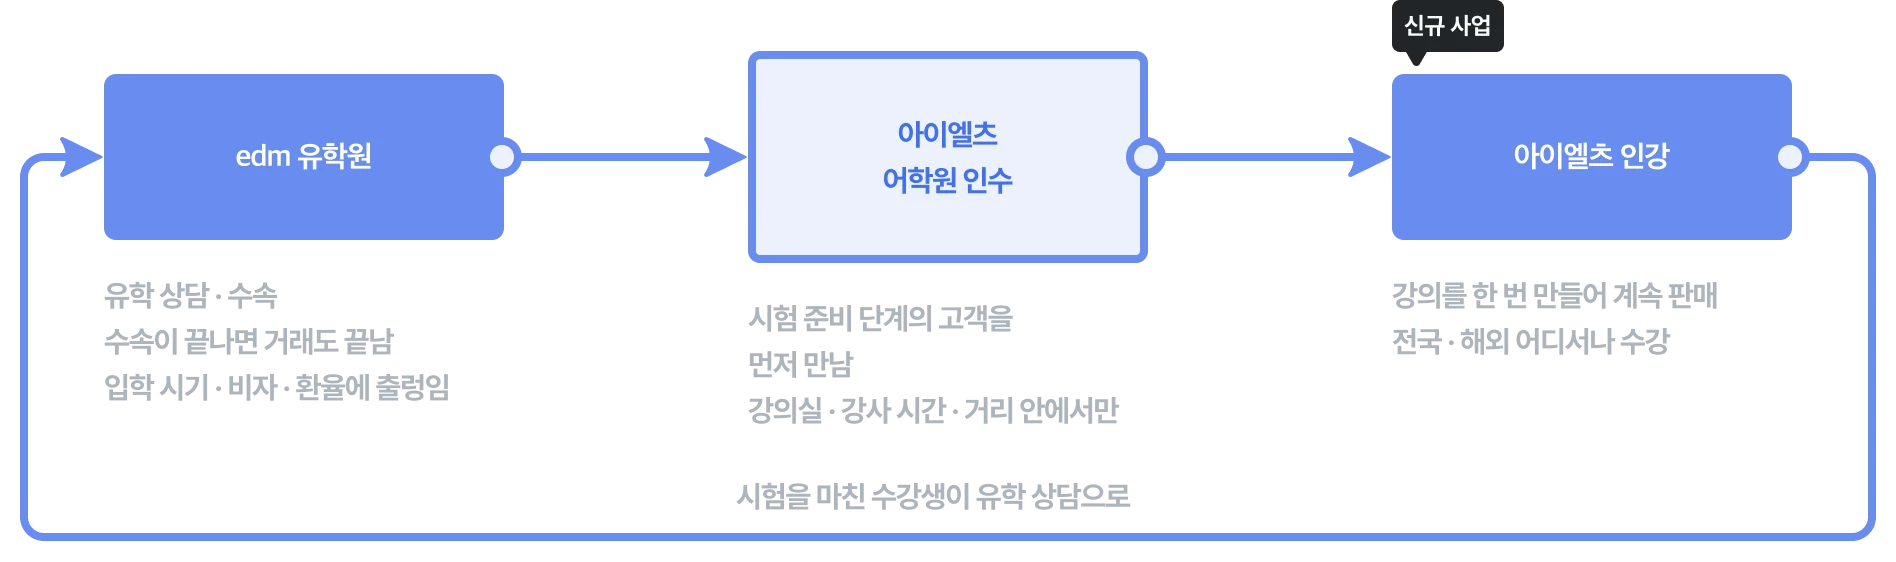
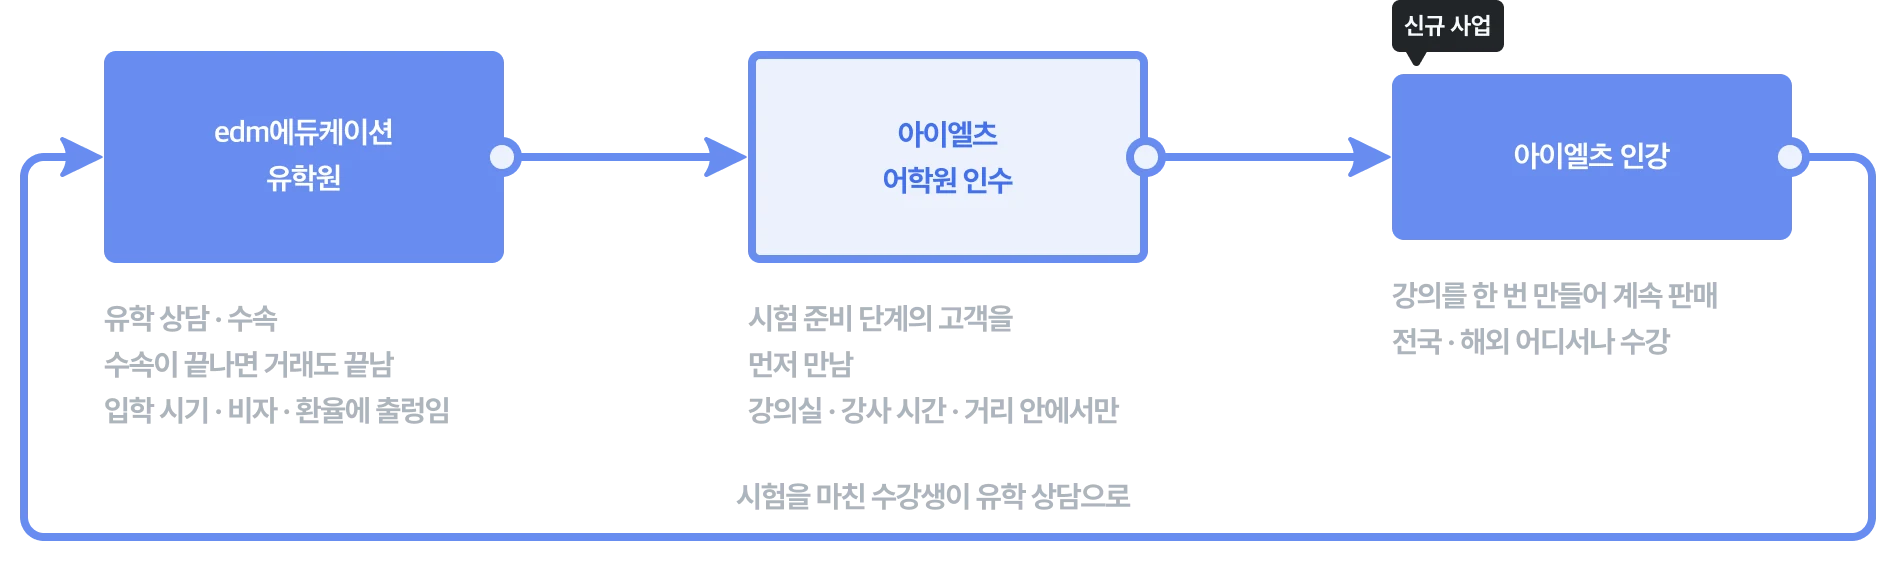
이디엠 — 회사 이름을 edm에듀케이션으로, 02 문제 정의에 퍼널 분석 도식
- 본문 · 경력 불릿 · 사업 확장 도식의 'edm' 을 'edm에듀케이션' 으로(사용자 지시)
- 02: 접수 기간 트래픽을 퍼널로 나눠 이탈이 첫 화면에 몰린 것을 보여 주는 도식(1:1) + 문단. 단계별 수치는 없어 넣지 않았다
- flowkit.line 에 k(굵기 · 고리 · 화살촉 배율) — 1:1 로 보이는 그림용, 기본값이면 예전과 같다

Changed region(s): [[0.0311, 0.4235, 0.2801, 0.7562], [0.0311, 0.0907, 0.2801, 0.1512], [0.0934, 0.2117, 0.2178, 0.363]]

diff --git a/resources/data/projects.php b/resources/data/projects.php
@@ -369,19 +369,19 @@ return [
                     //   근거: 사용자 말(edm 유학원 · 어학원 인수) · 경력기술서 · 이력 불릿(매출 10억 · 토스 · 한국어 인강). 매출은 10억 하나로만 쓴다(사용자 지시).
                     //   ⚠ 유학원의 한계(한 번의 거래 · 입학 시기 · 비자 · 환율)와 인강의 이유(판매 구조 · 유학 상담 연결)는 Claude 가 도메인 논리로 쓴 해석 — 사용자 확인 필요. A‑Z 붙임표는 U+2011.
                     ['title' => '배경', 'items' => [
-                        ['label' => '프로젝트 개요', 'text' => 'edm은 유학 상담과 수속을 하는 유학원으로 시작해 아이엘츠 어학원을 인수한 회사였습니다. 저는 어학원을 발판으로 온라인 인강 사업을 새로 여는 신사업팀의 초기 멤버로 합류해, 인강 플랫폼 오픈의 A‑Z 기획에 참여했고 오픈 뒤에는 서비스 운영과 상품 기획을 맡았습니다.'],
+                        ['label' => '프로젝트 개요', 'text' => 'edm에듀케이션은 유학 상담과 수속을 하는 유학원으로 시작해 아이엘츠 어학원을 인수한 회사였습니다. 저는 어학원을 발판으로 온라인 인강 사업을 새로 여는 신사업팀의 초기 멤버로 합류해, 인강 플랫폼 오픈의 A‑Z 기획에 참여했고 오픈 뒤에는 서비스 운영과 상품 기획을 맡았습니다.'],
                     ]],
                     ['title' => '사업 확장 이유', 'items' => [
                         ['label' => null, 'text' => '유학원의 매출은 상담과 수속에서 나옵니다. 수속이 끝나면 고객과의 거래도 끝나서 한 사람에게서 나오는 매출이 한 번에 그치고, 수요는 입학 시기와 비자, 환율 같은 바깥 조건에 따라 크게 출렁였습니다. 고객을 계속 새로 찾아야 하는 구조였습니다.'],
-                        ['label' => null, 'text' => '아이엘츠는 영국, 호주, 캐나다 같은 나라로 유학을 가려면 먼저 넘어야 하는 시험입니다. 어학원을 인수하면서 edm은 유학 상담보다 앞 단계인, 시험을 준비하는 사람들을 먼저 만날 수 있게 됐습니다. 하지만 오프라인 어학원은 강의실 수와 강사의 시간, 학원까지 오갈 수 있는 거리 안에서만 수강생을 받을 수 있었습니다. 지방이나 해외에 있는 준비생, 수업 시간을 맞추기 어려운 직장인은 들을 수 없었습니다.'],
+                        ['label' => null, 'text' => '아이엘츠는 영국, 호주, 캐나다 같은 나라로 유학을 가려면 먼저 넘어야 하는 시험입니다. 어학원을 인수하면서 edm에듀케이션은 유학 상담보다 앞 단계인, 시험을 준비하는 사람들을 먼저 만날 수 있게 됐습니다. 하지만 오프라인 어학원은 강의실 수와 강사의 시간, 학원까지 오갈 수 있는 거리 안에서만 수강생을 받을 수 있었습니다. 지방이나 해외에 있는 준비생, 수업 시간을 맞추기 어려운 직장인은 들을 수 없었습니다.'],
                         ['label' => null, 'text' => '인강은 이 두 한계를 한 번에 푸는 방법이었습니다. 강의를 한 번 만들면 수강생이 늘어도 강의실과 강사를 더 늘리지 않아도 되고, 국내는 물론 해외 어디서든 들을 수 있습니다. 사업 초기부터 국내 시장만으로는 아이엘츠 시장의 파이가 크지 않다는 점을 감안해, 국내뿐 아니라 해외에 있는 학생까지 끌어들이는 것을 전제로 삼았습니다. 인강으로 아이엘츠를 준비하는 사람을 넓게 모으면 시험을 마친 수강생이 유학 상담으로 이어지는 흐름도 만들 수 있었습니다.'],
-                        ['image' => ['src' => 'images/projects/edm-business-flow.webp', 'width' => 1896, 'height' => 562, 'max' => 711, 'plain' => true, 'alt' => '사업이 넓어진 순서. edm 유학원(유학 상담 · 수속, 수속이 끝나면 거래도 끝나고 입학 시기 · 비자 · 환율에 출렁임), 아이엘츠 어학원 인수(시험 준비 단계의 고객을 먼저 만나지만 강의실 · 강사 시간 · 거리 안에서만), 아이엘츠 인강(신규 사업, 강의를 한 번 만들어 계속 판매, 전국 · 해외 어디서나 수강). 시험을 마친 수강생이 다시 유학 상담으로 이어진다.', 'caption' => '유학원에서 어학원을 거쳐 인강까지']],
-                        ['label' => null, 'text' => '사업 영역을 온라인까지 넓히려면 풀어야 할 과제가 두 가지였습니다. 오프라인에서 쌓은 edm의 브랜드를 온라인에서 일관되게 보여 줄 구조가 없었고, 강의 영상 스트리밍과 학습 관리, 결제, 교재 배송을 한 서비스로 묶은 온라인 교육 인프라도 처음부터 만들어야 했습니다.'],
+                        ['image' => ['src' => 'images/projects/edm-business-flow.webp', 'width' => 1896, 'height' => 562, 'max' => 711, 'plain' => true, 'alt' => '사업이 넓어진 순서. edm에듀케이션 유학원(유학 상담 · 수속, 수속이 끝나면 거래도 끝나고 입학 시기 · 비자 · 환율에 출렁임), 아이엘츠 어학원 인수(시험 준비 단계의 고객을 먼저 만나지만 강의실 · 강사 시간 · 거리 안에서만), 아이엘츠 인강(신규 사업, 강의를 한 번 만들어 계속 판매, 전국 · 해외 어디서나 수강). 시험을 마친 수강생이 다시 유학 상담으로 이어진다.', 'caption' => '유학원에서 어학원을 거쳐 인강까지']],
+                        ['label' => null, 'text' => '사업 영역을 온라인까지 넓히려면 풀어야 할 과제가 두 가지였습니다. 오프라인에서 쌓은 edm에듀케이션의 브랜드를 온라인에서 일관되게 보여 줄 구조가 없었고, 강의 영상 스트리밍과 학습 관리, 결제, 교재 배송을 한 서비스로 묶은 온라인 교육 인프라도 처음부터 만들어야 했습니다.'],
                     ]],
                     ['title' => '플랫폼 기획', 'items' => [
                         ['image' => ['src' => 'images/projects/edm-production-flow.webp', 'width' => 3620, 'height' => 364, 'plain' => true, 'alt' => '강의가 만들어져 관리되기까지. 커리큘럼 개발(제작 과정을 정의하고 강사용 매뉴얼로 정리), 교안 제작, 강의 녹화, 편집 · 인강 제작, AWS 서버 업로드(국내 · 해외 어디서나 끊기지 않고 수강), LMS 강의 관리.', 'caption' => '강의 제작부터 관리까지']],
                         ['label' => null, 'text' => '플랫폼 기획은 강의를 만드는 일에서 시작했습니다. 어학원 강사가 강의를 찍으려면 먼저 커리큘럼을 개발하고 교안을 만들어야 했고, 강의를 녹화하고 편집해 인터넷 강의로 제작해야 했습니다. 이 제작 과정을 정의하고, 강사가 따라 할 수 있는 강사용 매뉴얼을 만들었습니다.'],
-                        ['label' => null, 'text' => '제작 과정부터 정한 건 온라인에서 edm의 브랜드를 지키는 방법이 결국 강의의 품질이라고 봤기 때문입니다. 교실에서는 강사가 학생 반응을 보며 설명을 늘리거나 줄일 수 있지만, 인강은 한 번 찍은 영상을 모든 수강생이 똑같이 봅니다. 강사마다 준비하고 찍는 방식이 다르면 같은 edm 강의라도 품질이 제각각이 됩니다. 그래서 커리큘럼과 교안을 확정한 뒤에 녹화에 들어가는 순서를 정하고, 녹화와 편집에서 지킬 기준을 강사용 매뉴얼에 담아 어느 강사의 강의를 들어도 같은 수준이 나오게 했습니다.'],
+                        ['label' => null, 'text' => '제작 과정부터 정한 건 온라인에서 edm에듀케이션의 브랜드를 지키는 방법이 결국 강의의 품질이라고 봤기 때문입니다. 교실에서는 강사가 학생 반응을 보며 설명을 늘리거나 줄일 수 있지만, 인강은 한 번 찍은 영상을 모든 수강생이 똑같이 봅니다. 강사마다 준비하고 찍는 방식이 다르면 같은 edm에듀케이션 강의라도 품질이 제각각이 됩니다. 그래서 커리큘럼과 교안을 확정한 뒤에 녹화에 들어가는 순서를 정하고, 녹화와 편집에서 지킬 기준을 강사용 매뉴얼에 담아 어느 강사의 강의를 들어도 같은 수준이 나오게 했습니다.'],
                         ['label' => null, 'text' => '정보구조는 강의를 올리고 관리하는 관리자 · LMS와 수강생이 강의를 듣는 수강생 사이트로 구성했습니다.'],
                         ['table' => ['group' => true, 'headers' => ['구분', '메뉴', '설명'], 'rows' => [
                             ['수강생 사이트', '회원가입', '가입한 계정 하나로 수강과 결제, 학습 관리까지'],
@@ -430,7 +430,9 @@ return [
                         ]],
                     ]],
                     ['title' => '문제 정의', 'items' => [
-                        ['label' => null, 'text' => '모의고사 접수 기간이 되면 신청 사이트로 들어오는 사람은 크게 늘었지만, 신청으로 이어지는 사람은 그만큼 늘지 않았습니다. 접수 기간의 트래픽을 들여다보니 많은 사용자가 첫 화면에서 바로 나가고 있었습니다.'],
+                        // 퍼널 도식 — tools/figma-export-plugin/tasks/edm.py funnel(). ⚠ 단계별 수치는 없다(경력기술서에 없음). 사용자가 수치를 주면 도식과 문단에 넣는다.
+                        ['image' => ['src' => 'images/projects/edm-ielts-funnel.webp', 'width' => 1460, 'height' => 710, 'max' => 730, 'plain' => true, 'alt' => '개편 전 모의고사 접수 퍼널. 접수 기간 유입에서 첫 화면 · 게시글 목록, 게시글 열람, 신청 글 작성, 신청 완료로 좁아지고, 첫 화면에서 가장 크게 좁아진다. 첫 화면 옆에 이탈 집중 표시와 함께 신청 방법이 보이지 않아 게시글 목록에서 바로 나감. 게시글 열람은 다른 사람의 글을 열어 적는 방식을 확인하는 단계, 신청 글 작성은 정해진 양식 없이 자유롭게 쓰는 단계, 신청 완료 뒤에는 관리자가 글을 옮겨 적어 명단에 반영한다.', 'caption' => '개편 전 모의고사 접수 퍼널']],
+                        ['label' => null, 'text' => '모의고사 접수 기간이 되면 신청 사이트로 들어오는 사람은 크게 늘었지만, 신청으로 이어지는 사람은 그만큼 늘지 않았습니다. 그래서 접수 기간의 트래픽을 퍼널로 나눠 봤습니다. 첫 화면인 게시글 목록에 들어와 다른 사람의 글을 열어 신청 방법을 확인하고, 신청 글을 작성해 등록하기까지를 단계별로 보니 이탈은 첫 화면에 몰려 있었습니다. 많은 사용자가 게시글 목록만 보고 바로 나갔습니다.'],
                         ['label' => null, 'text' => '원인은 첫 화면이 게시판이라는 데 있었습니다. 기존 모의고사 신청 사이트는 익명 게시판 형태로 운영돼서, 처음 들어온 사람이 보는 건 다른 사람들이 남긴 신청 글 목록이었습니다. 어떻게 신청하는지, 글에 무엇을 적어야 하는지는 다른 사람의 글을 몇 개 열어 보고서야 알 수 있었습니다.'],
                         ['label' => null, 'text' => '운영도 비효율적이었습니다. 신청 글은 사람마다 적는 방식이 제각각이라, 관리자는 글을 하나씩 열어 이름과 연락처, 응시 일정을 명단으로 옮겨 적어야 했습니다. 손으로 옮기는 만큼 빠지거나 잘못 적히는 정보도 생길 수 있었습니다.'],
                         ['label' => null, 'text' => '이 근거를 바탕으로 생각해볼 수 있는 가설은 익명 게시판 형태의 신청을 프로세스 중심의 화면으로 바꾸면 신청 허들이 낮아져 전환율이 오른다는 것이었습니다.'],

diff --git a/tools/figma-export-plugin/tasks/edm.py b/tools/figma-export-plugin/tasks/edm.py
@@ -7,7 +7,9 @@
   (정보구조도는 그림 대신 projects.php 의 표로 옮겼다 — 2026-09-26 사용자 요청)
   ielts   개선 전(흐린 줄) 게시글 목록 → 신청 방법을 찾았나(N 이탈) → 신청 글 → 관리자 수동 취합 / 개선 후 일정 선택 → 정보 입력 → 확인 · 접수 완료 → 명단 자동 생성
   global  해외 유학 준비생 → 해외 결제 → 무료 교재 해외배송(EMS) → AWS 로 강의 접속 → 수강
-  business edm 유학원 → 아이엘츠 어학원 인수 → 아이엘츠 인강, 인강 수강생이 다시 유학 상담으로(개요 문제 정의)
+  business edm에듀케이션 유학원 → 아이엘츠 어학원 인수 → 아이엘츠 인강, 인강 수강생이 다시 유학 상담으로(개요 사업 확장 이유)
+  funnel  개편 전 모의고사 접수 퍼널(도식) — 단계와 이탈이 몰린 첫 화면만. 수치는 경력기술서에 없어 넣지 않는다
+  ⚠ 회사 이름은 edm 이 아니라 edm에듀케이션(사용자, 2026-09-27)
 사용: python3 tools/figma-export-plugin/tasks/edm.py <작업 JSON 경로>
 """
 import sys
@@ -71,7 +73,7 @@ def global_():
 def business():
     """유학원 → 어학원 인수 → 인강 — 사업이 넓어진 순서와, 인강 수강생이 다시 유학 상담으로 이어지는 흐름(개요 문제 정의)."""
     f = Flow()
-    f.box('agency', X[0], CY, ['edm 유학원'], terminal=True, note=['유학 상담 · 수속', '수속이 끝나면 거래도 끝남', '입학 시기 · 비자 · 환율에 출렁임'])
+    f.box('agency', X[0], CY, ['edm에듀케이션', '유학원'], terminal=True, note=['유학 상담 · 수속', '수속이 끝나면 거래도 끝남', '입학 시기 · 비자 · 환율에 출렁임'])
     f.box('academy', X[1], CY, ['아이엘츠', '어학원 인수'], note=['시험 준비 단계의 고객을', '먼저 만남', '강의실 · 강사 시간 · 거리 안에서만'])
     f.box('online', X[2], CY, ['아이엘츠 인강'], terminal=True, note=['강의를 한 번 만들어 계속 판매', '전국 · 해외 어디서나 수강'])
     f.right('agency', 'academy'); f.right('academy', 'online')
@@ -82,12 +84,57 @@ def business():
     f.pill('online', '신규 사업')
     return f
 
+def funnel():
+    """개편 전 모의고사 접수 퍼널 — 1:1 로 보이는 도식(글자 15 · 선 2). 단계와 이탈이 몰린 첫 화면만 표시한다.
+    ⚠ 단계별 인원 · 이탈률은 경력기술서에 없다 — 숫자를 지어내지 않는다. 폭은 첫 화면에서 크게 좁아지는 모양만 보여 준다."""
+    import math
+    f = Flow()
+    CX, AX = 220, 512                     # 깔때기 가운데 · 오른쪽 설명 칸
+    def rpoly(pts, r=6):                  # 모서리를 반경 r 로 굴린 다각형
+        def toward(p, q, d):
+            L = math.hypot(q[0] - p[0], q[1] - p[1]); return (p[0] + (q[0] - p[0]) * d / L, p[1] + (q[1] - p[1]) * d / L)
+        out = []
+        for i in range(len(pts)):
+            p0, p1, p2 = pts[i - 1], pts[i], pts[(i + 1) % len(pts)]
+            a, b = toward(p1, p0, r), toward(p1, p2, r)
+            out.append(('M' if i == 0 else 'L') + f'{a[0]:.2f} {a[1]:.2f}Q{p1[0]:.2f} {p1[1]:.2f} {b[0]:.2f} {b[1]:.2f}')
+        return ''.join(out) + 'Z'
+    layers = [  # 위 · 높이 · 윗변 · 아랫변 · 이름 · 진하게 · 오른쪽 설명
+        (40, 96, 440, 220, '첫 화면 · 게시글 목록', True, None),
+        (146, 64, 220, 188, '게시글 열람', False, '다른 사람의 글을 열어 적는 방식을 확인'),
+        (220, 64, 188, 156, '신청 글 작성', False, '정해진 양식 없이 자유롭게 작성'),
+        (294, 64, 156, 124, '신청 완료', False, '관리자가 글을 옮겨 적어 명단에 반영'),
+    ]
+    f.items.append(text(CX - 110, ['접수 기간 유입'], PRE, NOTE, cy=16, w=220, align='CENTER'))
+    for y, h, tw, bw, name, solid, note in layers:
+        pts = [(CX - tw / 2, y), (CX + tw / 2, y), (CX + bw / 2, y + h), (CX - bw / 2, y + h)]
+        x0, y0, w, hh = CX - tw / 2 - 2, y - 2, tw + 4, h + 4
+        svg = (f'<svg width="{w}" height="{hh}" viewBox="{x0} {y0} {w} {hh}" fill="none" xmlns="http://www.w3.org/2000/svg">'
+               f'<path d="{rpoly(pts)}" fill="{BLUE if solid else LIGHT}" stroke="{BLUE}" stroke-width="2"/></svg>')
+        f.items.append({'type': 'svg', 'name': name, 'x': x0, 'y': y0, 'svg': svg})
+        f.items.append(text(CX - 110, [name], SD if solid else PRE, WHITE if solid else TEXT_BLUE, cy=y + h / 2, w=220, align='CENTER'))
+        if note:                          # 가는 점선으로 층과 설명을 잇는다
+            cy = y + h / 2; edge = CX + (tw + bw) / 4
+            f.items.append({'type': 'line', 'name': '점선', 'x': edge + 8, 'y': cy, 'w': AX - 12 - edge - 8, 'color': NOTE, 'weight': 1.5, 'dash': [4, 4]})
+            f.items.append(text(AX, [note], PRE, NOTE, cy=cy))
+    # 첫 화면에서 빠져나가는 화살표 — 이탈이 몰린 곳
+    cy = 40 + 48; edge = CX + (440 + 220) / 4
+    f.line([(edge + 1, cy), (AX - 12, cy)], k=0.5)
+    f.items.append(text(AX, ['첫 화면에서 이탈'], SD, '#212529', cy=cy))
+    f.items.append(text(AX, ['신청 방법이 보이지 않아', '게시글 목록에서 바로 나감'], PRE, NOTE, y=cy + 11.5 + 6))
+    top = cy - 11.5
+    f.items.append({'type': 'tooltip', 'name': '이탈 집중', 'x': AX, 'y': top - 4 - 7 - 26, 'text': '이탈 집중', 'font': PRE, 'size': 12, 'lineHeight': 22, 'tracking': -0.12,
+                    'color': '#F8F9FA', 'bg': '#212529', 'padX': 6, 'padY': 2, 'radius': 4})
+    f.items.append({'type': 'svg', 'name': '꼬리', 'x': AX + 7, 'y': top - 4 - 7, 'svg': TAIL})
+    return f
+
 def draws():
     P = '이디엠에듀케이션'
     return [
         {'page': P, 'frame': '이디엠 · 유학원에서 인강까지', 'x': 0, 'y': 2100, 'export': 'edm-business-flow', 'items': business().items},
         {'page': P, 'frame': '이디엠 · 강의 제작부터 관리까지', 'x': 0, 'y': 0, 'export': 'edm-production-flow', 'items': production().items},
         {'page': P, 'frame': '이디엠 · 모의고사 접수 개편 전후', 'x': 0, 'y': 700, 'export': 'edm-ielts-flow', 'items': ielts().items},
+        {'page': P, 'frame': '이디엠 · 모의고사 접수 퍼널', 'x': 2200, 'y': 700, 'export': 'edm-ielts-funnel', 'items': funnel().items},
         {'page': P, 'frame': '이디엠 · 해외 수강생이 수강까지', 'x': 0, 'y': 1400, 'export': 'edm-global-flow', 'items': global_().items},
     ]
 

diff --git a/tools/figma-export-plugin/tasks/flowkit.py b/tools/figma-export-plugin/tasks/flowkit.py
@@ -54,34 +54,34 @@ class Flow:
         ox, oy = x + 7.04, top + 0.825      # 벡터 꼭짓점(곡선 끝 포함) — 왼 2.0 · 오 195.94 · 위 2.0 · 아래 106.48
         self.nodes[key] = {'left': ox + 2.0, 'right': ox + 195.94, 'top': oy + 2.0, 'bottom': oy + 106.48, 'cx': x + 106, 'cy': cy}
     def label(self, x, y, s): self.items.append(text(x, [s], PRE, NOTE, y=y))
-    def line(self, pts, muted=False):
-        """꺾인 연결선 — 시작점 고리, 모서리 반경 10, 마지막 방향으로 화살촉."""
+    def line(self, pts, muted=False, k=1):
+        """꺾인 연결선 — 시작점 고리, 모서리 반경 10, 마지막 방향으로 화살촉. k 는 굵기 · 고리 · 화살촉 배율(1:1 로 보이는 그림은 0.5)."""
         (ex, ey), (px, py) = pts[-1], pts[-2]
         L = math.hypot(ex - px, ey - py); ux, uy = (ex - px) / L, (ey - py) / L
-        body = pts[:-1] + [(ex - ux * TIP_GAP, ey - uy * TIP_GAP)]
+        body = pts[:-1] + [(ex - ux * TIP_GAP * k, ey - uy * TIP_GAP * k)]
         d = [f'M{body[0][0]:.2f} {body[0][1]:.2f}']
         for i in range(1, len(body) - 1):
             (ax, ay), (bx, by), (cx, cy) = body[i - 1], body[i], body[i + 1]
             ia = math.hypot(bx - ax, by - ay); ib = math.hypot(cx - bx, cy - by)
             di, do = ((bx - ax) / ia, (by - ay) / ia), ((cx - bx) / ib, (cy - by) / ib)
-            r = min(10, ia / 2, ib / 2); k = 0.5523 * r          # 사분원 베지어 — 덱 S자 선과 같은 반경 10
+            r = min(10 * k, ia / 2, ib / 2); kk = 0.5523 * r     # 사분원 베지어 — 덱 S자 선과 같은 반경 10
             s, e = (bx - di[0] * r, by - di[1] * r), (bx + do[0] * r, by + do[1] * r)
-            d.append(f'L{s[0]:.2f} {s[1]:.2f}C{s[0] + di[0] * k:.2f} {s[1] + di[1] * k:.2f} {e[0] - do[0] * k:.2f} {e[1] - do[1] * k:.2f} {e[0]:.2f} {e[1]:.2f}')
+            d.append(f'L{s[0]:.2f} {s[1]:.2f}C{s[0] + di[0] * kk:.2f} {s[1] + di[1] * kk:.2f} {e[0] - do[0] * kk:.2f} {e[1] - do[1] * kk:.2f} {e[0]:.2f} {e[1]:.2f}')
         d.append(f'L{body[-1][0]:.2f} {body[-1][1]:.2f}')
         def rot(p):  # 오른쪽 기준 화살촉을 마지막 방향으로 돌려 끝점에 놓는다
-            return (ex + p[0] * ux - p[1] * uy, ey + p[0] * uy + p[1] * ux)
+            return (ex + (p[0] * ux - p[1] * uy) * k, ey + (p[0] * uy + p[1] * ux) * k)
         a = []
         for cmd, *ps in ARROW:
             a.append(cmd + ' '.join(f'{q[0]:.3f} {q[1]:.3f}' for q in map(rot, ps)))
         sx, sy = pts[0]
         xs = [p[0] for p in pts]; ys = [p[1] for p in pts]
-        x0, y0 = min(xs) - 12, min(ys) - 12; x1, y1 = max(xs) + 12, max(ys) + 12
+        x0, y0 = min(xs) - 12 * k, min(ys) - 12 * k; x1, y1 = max(xs) + 12 * k, max(ys) + 12 * k
         w, h = x1 - x0, y1 - y0
         c, ring = (MUTED_LINE, MUTED_FACE) if muted else (BLUE, LIGHT)
         svg = (f'<svg width="{w:.2f}" height="{h:.2f}" viewBox="{x0:.2f} {y0:.2f} {w:.2f} {h:.2f}" fill="none" xmlns="http://www.w3.org/2000/svg">'
-               f'<path d="{"".join(d)}" stroke="{c}" stroke-width="4" stroke-linecap="round" stroke-linejoin="round"/>'
+               f'<path d="{"".join(d)}" stroke="{c}" stroke-width="{4 * k}" stroke-linecap="round" stroke-linejoin="round"/>'
                f'<path d="{"".join(a)}Z" fill="{c}"/>'
-               f'<circle cx="{sx:.2f}" cy="{sy:.2f}" r="10" fill="{c}"/><circle cx="{sx:.2f}" cy="{sy:.2f}" r="6" fill="{ring}"/></svg>')
+               f'<circle cx="{sx:.2f}" cy="{sy:.2f}" r="{10 * k}" fill="{c}"/><circle cx="{sx:.2f}" cy="{sy:.2f}" r="{6 * k}" fill="{ring}"/></svg>')
         self.items.append({'type': 'svg', 'name': '연결선', 'x': x0, 'y': y0, 'svg': svg})
     def right(self, a, b, muted=False):   # 가로 연결 — 고리는 앞 상자 오른쪽 끝, 화살촉 끝은 다음 상자 왼쪽 끝
         A, B = self.nodes[a], self.nodes[b]

diff --git a/resources/views/home.blade.php b/resources/views/home.blade.php
@@ -271,7 +271,7 @@
                         <p class="{{ $sub }}">신사업본부 어학사업팀 / 서비스 기획 및 운영</p>
                         <ul class="{{ $bullets }} list-disc">
                             <li>연 매출 10억 규모 인강 사이트 운영 담당</li>
-                            <li>edm IELTS 인강 플랫폼 기획</li>
+                            <li>edm에듀케이션 IELTS 인강 플랫폼 기획</li>
                             <li>IELTS 토스 및 한국어 인강 론칭</li>
                         </ul>
                     </div>
